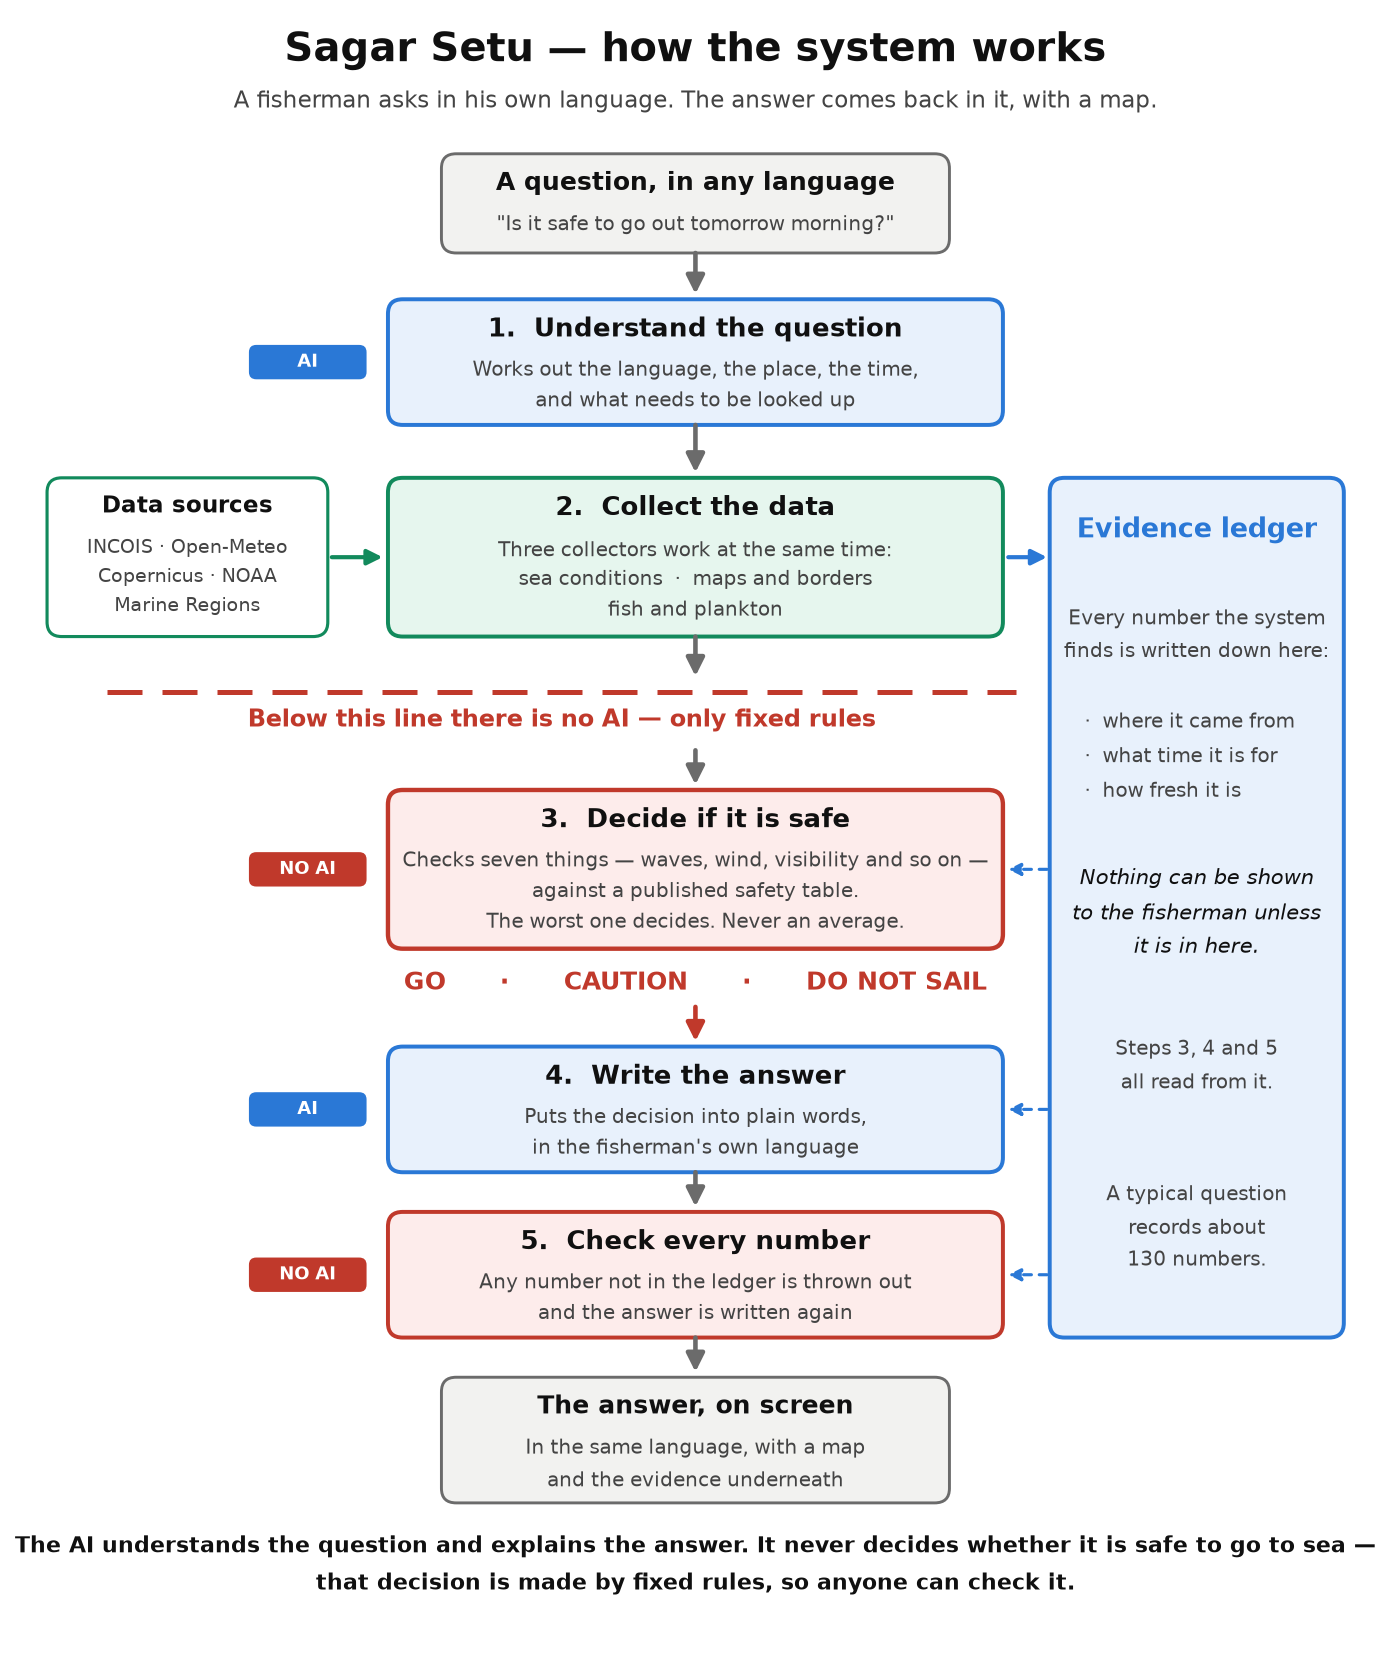
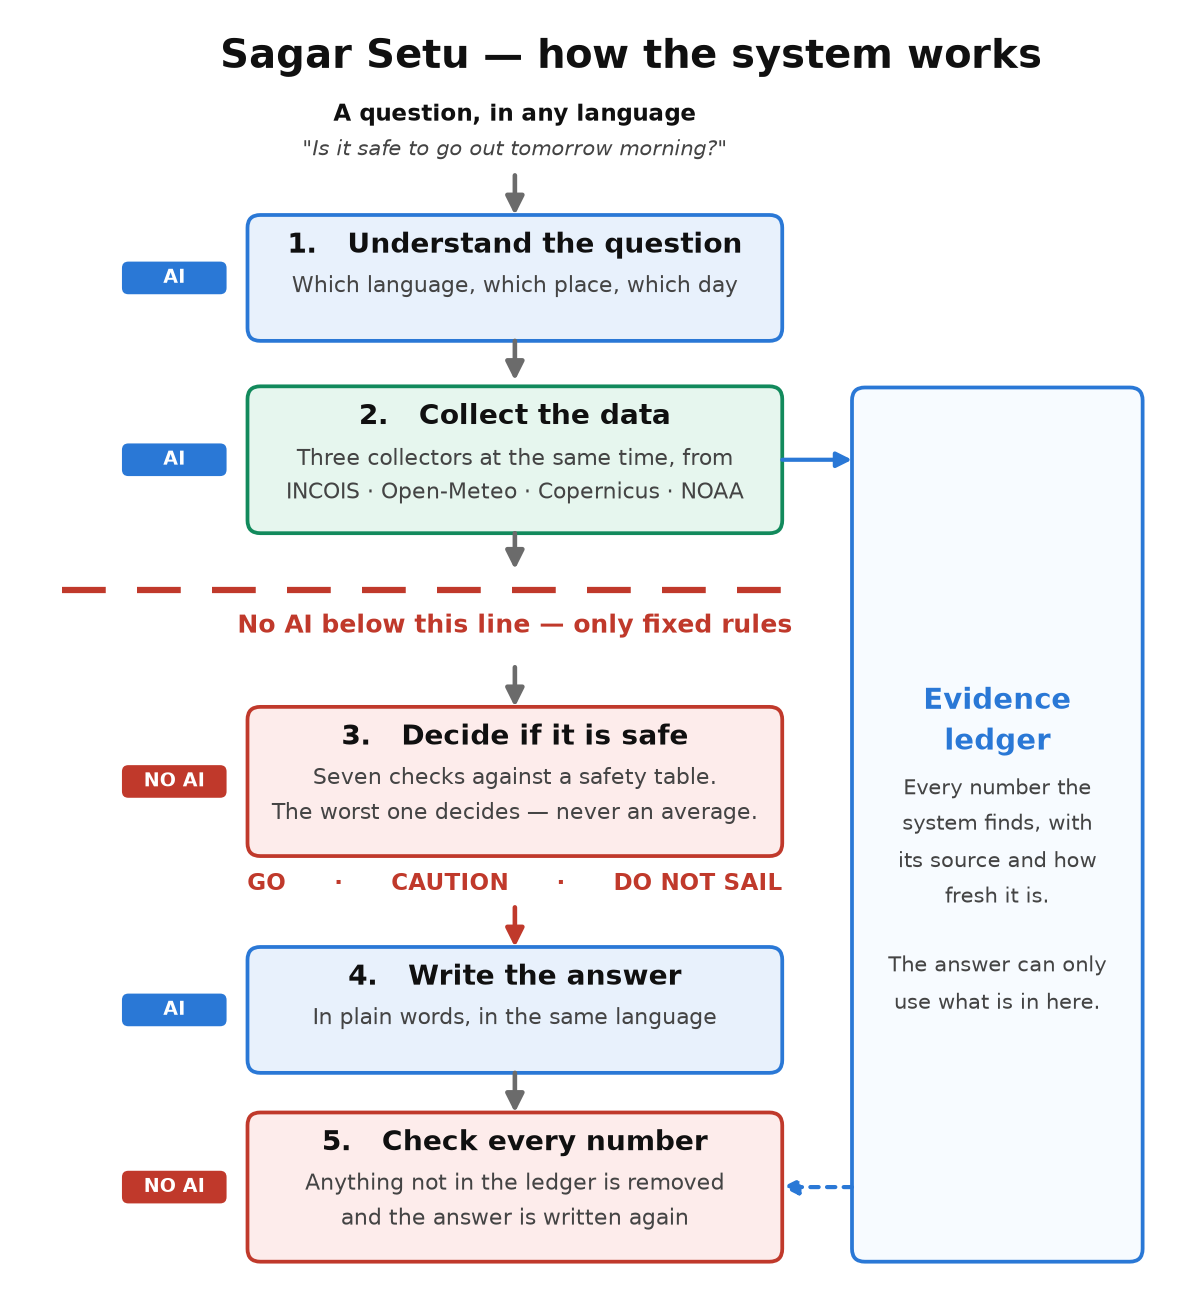
docs: strip the architecture diagram back further
Still read as complex. Removed the question and answer boxes (now plain
captions), folded the separate data-sources box into one line inside step 2,
and cut the evidence ledger from six lines of explanation to two.

Five boxes, one or two short lines each, one red line. Rule for this figure:
anything that needs a third line of text belongs in the document, not the
picture.

diff --git a/scripts/plot_architecture_simple.py b/scripts/plot_architecture_simple.py
@@ -3,7 +3,9 @@
   architecture.png   the main diagram: what the parts are and how they connect
   flow.png           the same journey with measured timings
 
-The detailed engineering diagram lives in scripts/plot_architecture.py.
+Deliberately sparse. Five boxes, one line of explanation each, two badges' worth of
+colour. Anything that needed a third line of text belongs in the document, not the
+picture. The detailed engineering diagram lives in scripts/plot_architecture.py.
 """
 
 from __future__ import annotations
@@ -32,25 +34,25 @@ INDIC = fm.FontProperties(fname=_indic[0]) if _indic else None
 plt.rcParams.update({"font.family": "DejaVu Sans"})
 
 
-def node(ax, x, y, w, h, title, sub=None, *, fc="#ffffff", ec=GREY, lw=1.6,
-         tsize=12.5, ssize=9.5, badge=None, bcol=None):
+def node(ax, x, y, w, h, title, sub=None, *, fc="#ffffff", ec=GREY, lw=1.8,
+         tsize=13.5, ssize=10.5, badge=None, bcol=None):
     """Title anchored to the top of the box, subtitle beneath it — never overlapping."""
     ax.add_patch(FancyBboxPatch((x, y), w, h, boxstyle="round,pad=0,rounding_size=1.1",
                                 facecolor=fc, edgecolor=ec, linewidth=lw, zorder=2))
     if sub:
-        ax.text(x + w / 2, y + h - 1.3, title, size=tsize, weight="bold", color=INK,
+        ax.text(x + w / 2, y + h - 1.4, title, size=tsize, weight="bold", color=INK,
                 ha="center", va="top", zorder=4)
-        ax.text(x + w / 2, y + h - 4.2, sub, size=ssize, color=INK2,
-                ha="center", va="top", zorder=4, linespacing=1.55)
+        ax.text(x + w / 2, y + h - 4.6, sub, size=ssize, color=INK2,
+                ha="center", va="top", zorder=4, linespacing=1.6)
     else:
         ax.text(x + w / 2, y + h / 2, title, size=tsize, weight="bold", color=INK,
                 ha="center", va="center", zorder=4)
     if badge:
-        bw, bh = 8.8, 2.6
-        bx, by = x - bw - 1.6, y + h / 2 - bh / 2
+        bw, bh = 9.0, 2.8
+        bx, by = x - bw - 1.8, y + h / 2 - bh / 2
         ax.add_patch(FancyBboxPatch((bx, by), bw, bh, boxstyle="round,pad=0,rounding_size=0.55",
                                     facecolor=bcol, edgecolor="none", zorder=5))
-        ax.text(bx + bw / 2, by + bh / 2, badge, size=8.5, weight="bold", color="white",
+        ax.text(bx + bw / 2, by + bh / 2, badge, size=9, weight="bold", color="white",
                 ha="center", va="center", zorder=6)
 
 
@@ -66,92 +68,74 @@ def side(ax, p0, p1, *, color=GREY, lw=2.0, ls="solid", ms=15):
 
 # ---------------------------------------------------------------- main diagram
 
+X, W = 20.0, 46.0          # the single column of steps
+CX = X + W / 2             # its centre line
+
+
 def architecture() -> None:
-    fig, ax = plt.subplots(figsize=(11.5, 14.2), dpi=150)
+    fig, ax = plt.subplots(figsize=(10.0, 11.0), dpi=150)
     ax.set_xlim(0, 100)
-    ax.set_ylim(0, 124)
+    ax.set_ylim(-1, 108)
     ax.axis("off")
 
-    ax.text(50, 120.5, "Sagar Setu — how the system works", size=19, weight="bold",
-            ha="center", color=INK)
-    ax.text(50, 117.0, "A fisherman asks in his own language. The answer comes back in it, with a map.",
-            size=11, ha="center", color=INK2)
+    ax.text(53, 106, "Sagar Setu — how the system works",
+            size=19, weight="bold", ha="center", va="top", color=INK)
 
-    L, W = 27.0, 46.0        # centre column
-    CX = L + W / 2           # 50
+    # ---- the question
+    ax.text(CX, 99.4, "A question, in any language", size=11, color=INK,
+            ha="center", va="center", weight="bold")
+    ax.text(CX, 96.4, '"Is it safe to go out tomorrow morning?"', size=10, color=INK2,
+            ha="center", va="center", style="italic")
+    down(ax, CX, 94.2, 90.8)
 
-    node(ax, L + 4, 106.0, W - 8, 7.5, "A question, in any language",
-         "\"Is it safe to go out tomorrow morning?\"",
-         fc=GREY_BG, ec=GREY, lw=1.4, tsize=12, ssize=9.5)
-    down(ax, CX, 106.0, 102.9)
+    # ---- the five steps
+    node(ax, X, 80.0, W, 10.8, "1.   Understand the question",
+         "Which language, which place, which day",
+         fc=BLUE_BG, ec=BLUE, badge="AI", bcol=BLUE)
+    down(ax, CX, 80.0, 76.6)
 
-    node(ax, L, 93.0, W, 9.5, "1.  Understand the question",
-         "Works out the language, the place, the time,\nand what needs to be looked up",
-         fc=BLUE_BG, ec=BLUE, lw=1.9, badge="AI", bcol=BLUE)
-    down(ax, CX, 93.0, 89.4)
+    node(ax, X, 63.5, W, 12.6, "2.   Collect the data",
+         "Three collectors at the same time, from\nINCOIS · Open-Meteo · Copernicus · NOAA",
+         fc=GREEN_BG, ec=GREEN, badge="AI", bcol=BLUE)
+    down(ax, CX, 63.5, 60.4)
 
-    node(ax, L, 77.0, W, 12.0, "2.  Collect the data",
-         "Three collectors work at the same time:\nsea conditions  ·  maps and borders\nfish and plankton",
-         fc=GREEN_BG, ec=GREEN, lw=1.9)
+    # ---- the load-bearing line
+    ax.plot([4, 68], [58.6, 58.6], color=RED, lw=3.0, ls=(0, (7, 5)), zorder=3)
+    ax.text(CX, 56.6, "No AI below this line — only fixed rules",
+            size=12, weight="bold", color=RED, ha="center", va="top")
 
-    node(ax, 1.5, 77.0, 21.0, 12.0, "Data sources",
-         "INCOIS · Open-Meteo\nCopernicus · NOAA\nMarine Regions",
-         fc="#ffffff", ec=GREEN, lw=1.5, tsize=11, ssize=9)
-    side(ax, (22.8, 83.0), (26.6, 83.0), color=GREEN)
+    down(ax, CX, 52.0, 48.6)
+    node(ax, X, 35.8, W, 12.8, "3.   Decide if it is safe",
+         "Seven checks against a safety table.\nThe worst one decides — never an average.",
+         fc=RED_BG, ec=RED, badge="NO AI", bcol=RED)
 
-    down(ax, CX, 77.0, 74.0)
+    ax.text(CX, 33.4, "GO      ·      CAUTION      ·      DO NOT SAIL",
+            size=11, weight="bold", color=RED, ha="center", va="center")
+    down(ax, CX, 31.4, 28.0, color=RED)
 
-    # the one idea — the line stops short of the ledger
-    ax.plot([6, 74], [72.8, 72.8], color=RED, lw=2.4, ls=(0, (7, 4)), zorder=6)
-    ax.text(40, 70.2, "Below this line there is no AI — only fixed rules",
-            size=11.5, weight="bold", color=RED, ha="center")
-    down(ax, CX, 68.4, 65.8)
+    node(ax, X, 17.2, W, 10.8, "4.   Write the answer",
+         "In plain words, in the same language",
+         fc=BLUE_BG, ec=BLUE, badge="AI", bcol=BLUE)
+    down(ax, CX, 17.2, 13.8)
 
-    node(ax, L, 53.4, W, 12.0, "3.  Decide if it is safe",
-         "Checks seven things — waves, wind, visibility and so on —\nagainst a published safety table.\nThe worst one decides. Never an average.",
-         fc=RED_BG, ec=RED, lw=2.1, badge="NO AI", bcol=RED)
-    ax.text(CX, 50.8, "GO      ·      CAUTION      ·      DO NOT SAIL",
-            size=12, weight="bold", color=RED, ha="center", va="center")
-    down(ax, CX, 49.0, 46.4, color=RED)
+    node(ax, X, 1.0, W, 12.8, "5.   Check every number",
+         "Anything not in the ledger is removed\nand the answer is written again",
+         fc=RED_BG, ec=RED, badge="NO AI", bcol=RED)
 
-    node(ax, L, 36.5, W, 9.5, "4.  Write the answer",
-         "Puts the decision into plain words,\nin the fisherman's own language",
-         fc=BLUE_BG, ec=BLUE, lw=1.9, badge="AI", bcol=BLUE)
-    down(ax, CX, 36.5, 33.9)
+    # ---- the ledger, a rail beside the whole thing
+    lx, lw_ = 72.0, 25.0
+    ly, lh = 1.0, 75.0
+    ax.add_patch(FancyBboxPatch((lx, ly), lw_, lh, boxstyle="round,pad=0,rounding_size=1.1",
+                                facecolor="#f7fbff", edgecolor=BLUE, linewidth=1.8, zorder=2))
+    ax.text(lx + lw_ / 2, ly + lh / 2 + 9.0, "Evidence\nledger", size=14, weight="bold",
+            color=BLUE, ha="center", va="center", linespacing=1.5, zorder=4)
+    ax.text(lx + lw_ / 2, ly + lh / 2 - 6.0,
+            "Every number the\nsystem finds, with\nits source and how\nfresh it is.\n\n"
+            "The answer can only\nuse what is in here.",
+            size=10, color=INK2, ha="center", va="center", linespacing=1.7, zorder=4)
 
-    node(ax, L, 24.0, W, 9.5, "5.  Check every number",
-         "Any number not in the ledger is thrown out\nand the answer is written again",
-         fc=RED_BG, ec=RED, lw=1.9, badge="NO AI", bcol=RED)
-    down(ax, CX, 24.0, 21.4)
-
-    node(ax, L + 4, 11.5, W - 8, 9.5, "The answer, on screen",
-         "In the same language, with a map\nand the evidence underneath",
-         fc=GREY_BG, ec=GREY, lw=1.4, tsize=12, ssize=9.5)
-
-    # ---- the evidence ledger, to the right --------------------------------
-    LX, LW, LY, LH = 76.5, 22.0, 24.0, 65.0
-    node(ax, LX, LY, LW, LH, "", None, fc=BLUE_BG, ec=BLUE, lw=1.9)
-    cx = LX + LW / 2
-    ax.text(cx, 84.5, "Evidence ledger", size=13, weight="bold", color=BLUE, ha="center")
-    ax.text(cx, 79.5, "Every number the system\nfinds is written down here:",
-            size=9.5, color=INK2, ha="center", va="top", linespacing=1.55)
-    ax.text(LX + 2.6, 72.0, "·  where it came from\n·  what time it is for\n·  how fresh it is",
-            size=9.5, color=INK2, ha="left", va="top", linespacing=1.75)
-    ax.text(cx, 60.0, "Nothing can be shown\nto the fisherman unless\nit is in here.",
-            size=10, color=INK, ha="center", va="top", linespacing=1.6, style="italic")
-    ax.text(cx, 47.0, "Steps 3, 4 and 5\nall read from it.",
-            size=9.5, color=INK2, ha="center", va="top", linespacing=1.6)
-    ax.text(cx, 36.0, "A typical question\nrecords about\n130 numbers.",
-            size=9.5, color=INK2, ha="center", va="top", linespacing=1.6)
-
-    side(ax, (73.4, 83.0), (76.3, 83.0), color=BLUE)           # collectors write into it
-    for y in (59.4, 41.25, 28.75):                             # steps 3, 4, 5 read from it
-        side(ax, (76.3, y), (73.4, y), color=BLUE, lw=1.5, ls=(0, (2.5, 2.5)), ms=12)
-
-    ax.text(50, 4.0,
-            "The AI understands the question and explains the answer. It never decides whether it is safe to go to sea —\n"
-            "that decision is made by fixed rules, so anyone can check it.",
-            size=10.5, color=INK, ha="center", va="bottom", linespacing=1.7, weight="bold")
+    side(ax, (X + W, 69.8), (lx, 69.8), color=BLUE)              # written into
+    side(ax, (lx, 7.4), (X + W, 7.4), color=BLUE, ls=(0, (2, 2)))  # read back from
 
     fig.savefig(OUT / "architecture.png", bbox_inches="tight", facecolor="white")
     plt.close(fig)

diff --git a/docs/BUILD_LOG.md b/docs/BUILD_LOG.md
@@ -773,3 +773,10 @@ What changed:
 - *Finding worth keeping:* every diagram in this project has now been debugged by reading
   the rendered image back, never by trusting the layout code. Four iterations on the
   detailed figure, two on the simple one. Matplotlib will happily draw text outside a box.
+
+- *Follow-up:* still too busy. Stripped it again — the question and answer became plain
+  captions rather than boxes, the separate "Data sources" box folded into one line inside
+  step 2, and the evidence ledger's six lines of explanation cut to two. Five boxes, one
+  or two short lines each, one red line. Rule adopted for this figure: anything needing a
+  third line of text belongs in the document, not the picture. 0.24 MB, down from 0.90.
+
